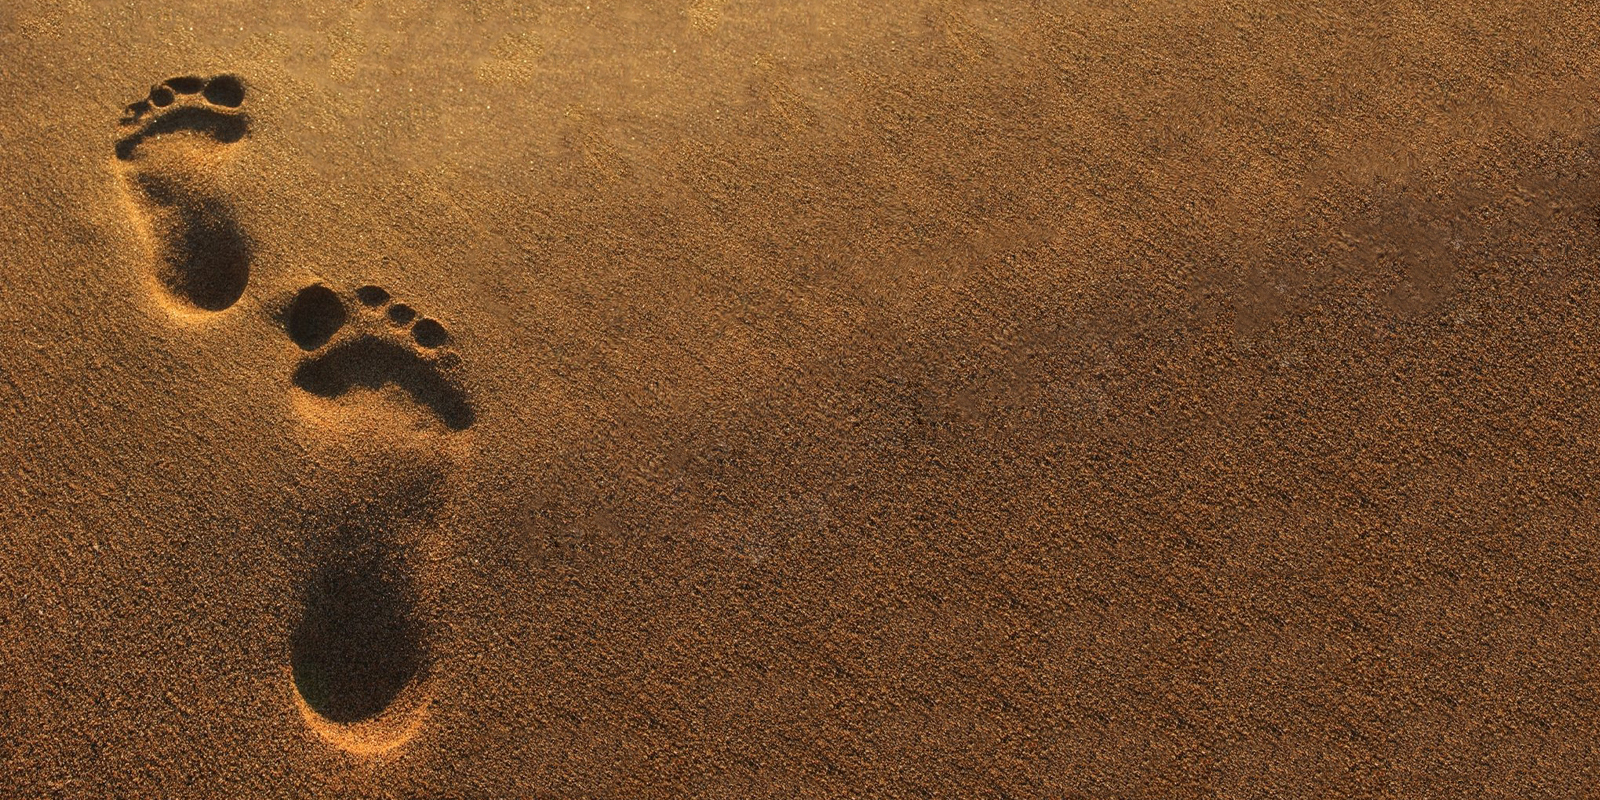
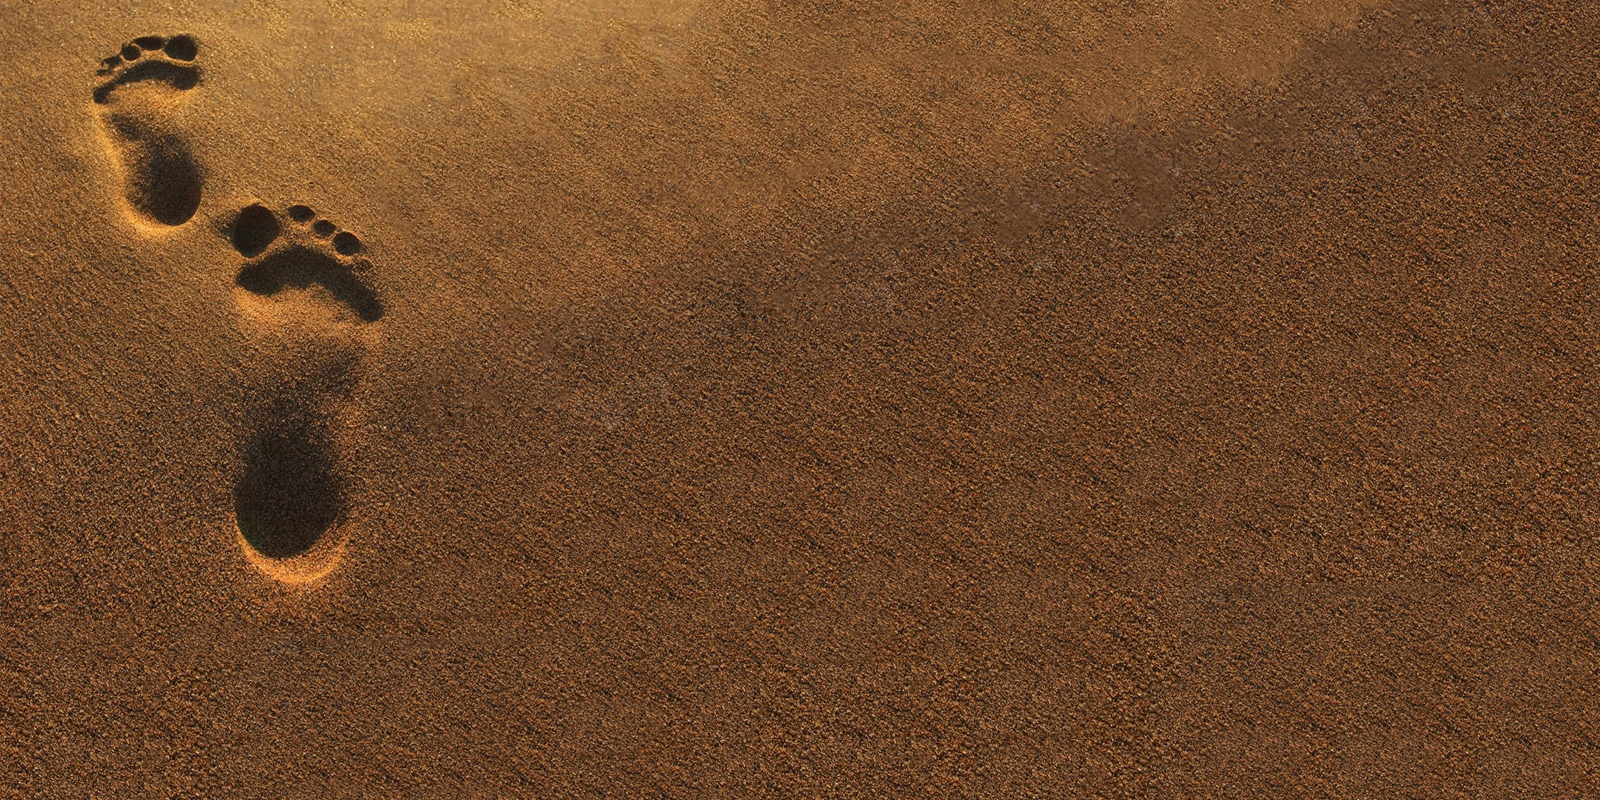
final touches

diff --git a/main.css b/main.css
@@ -1,1 +1,1 @@
-/*! normalize.css v8.0.0 | MIT License | github.com/necolas/normalize.css */@import url("https://fonts.googleapis.com/css?family=Lato:400,700");html{line-height:1.15;-webkit-text-size-adjust:100%}body{margin:0}h1{font-size:2em;margin:0.67em 0}hr{box-sizing:content-box;height:0;overflow:visible}pre{font-family:monospace, monospace;font-size:1em}a{background-color:transparent}abbr[title]{border-bottom:none;text-decoration:underline;text-decoration:underline dotted}b,strong{font-weight:bolder}code,kbd,samp{font-family:monospace, monospace;font-size:1em}small{font-size:80%}sub,sup{font-size:75%;line-height:0;position:relative;vertical-align:baseline}sub{bottom:-0.25em}sup{top:-0.5em}img{border-style:none}button,input,optgroup,select,textarea{font-family:inherit;font-size:100%;line-height:1.15;margin:0}button,input{overflow:visible}button,select{text-transform:none}button,[type="button"],[type="reset"],[type="submit"]{-webkit-appearance:button}button::-moz-focus-inner,[type="button"]::-moz-focus-inner,[type="reset"]::-moz-focus-inner,[type="submit"]::-moz-focus-inner{border-style:none;padding:0}button:-moz-focusring,[type="button"]:-moz-focusring,[type="reset"]:-moz-focusring,[type="submit"]:-moz-focusring{outline:1px dotted ButtonText}fieldset{padding:0.35em 0.75em 0.625em}legend{box-sizing:border-box;color:inherit;display:table;max-width:100%;padding:0;white-space:normal}progress{vertical-align:baseline}textarea{overflow:auto}[type="checkbox"],[type="radio"]{box-sizing:border-box;padding:0}[type="number"]::-webkit-inner-spin-button,[type="number"]::-webkit-outer-spin-button{height:auto}[type="search"]{-webkit-appearance:textfield;outline-offset:-2px}[type="search"]::-webkit-search-decoration{-webkit-appearance:none}::-webkit-file-upload-button{-webkit-appearance:button;font:inherit}details{display:block}summary{display:list-item}template{display:none}[hidden]{display:none}html{font-size:62.5%}body{font-family:'Lato', sans-serif;margin:0;line-height:1.5;font-size:1.8rem}h1,h2,h3,h4,h5,h6,p{margin:0}@media (max-width: 575.98px){html{font-size:55%}}@media (min-width: 576px) and (max-width: 767.98px){html{font-size:58%}}@media (min-width: 768px) and (max-width: 991.98px){html{font-size:60%}}@media (min-width: 992px) and (max-width: 1199.98px){html{font-size:62.5%}}@media (min-width: 1200px){html{font-size:62.5%}}html{font-size:62.5%}body{margin:0;font-size:1.8rem;padding:0;font-family:'Montserrat', sans-serif}h1,h2,h3,h4,h5,h6,p{margin:0}h2{font-size:2.25rem}a{text-decoration:none;color:#c19032}a:hover{color:#c19032}.navbar{background-image:linear-gradient(rgba(255,255,255,0.45), rgba(255,255,255,0.45)),url("./imgs/faith_steps_cover.jpg")}section.hero{height:100vh;width:100%;background-size:cover}section.dark{background-color:#191000;color:#fcf1de}section.padded{padding-top:8rem;padding-bottom:8rem}section.content .container .row,section.content .container-fluid .row{padding-top:3rem}section.content .container .row .border-white,section.content .container-fluid .row .border-white{border:0.1rem solid white}section.content .container .row .border-black,section.content .container-fluid .row .border-black{border:0.1rem solid black}section.content .container .row .column-pad,section.content .container-fluid .row .column-pad{padding-top:2rem}section.social{padding-top:8rem;padding-left:55rem;padding-right:55rem;display:flex;justify-content:space-around;font-size:5rem}section.social a{color:#191000}section.social a:hover{color:#c19032}.title{background-image:url("./imgs/faith_steps_cover_6.jpg");height:50rem;width:100%;background-size:cover;color:#fcf1de;display:flex;justify-content:center;align-items:center}.title h1{font-weight:500;font-size:7rem;text-align:left}@media (max-width: 560px){.title{font-size:5rem}}.card{background-color:#fcf1de;border-bottom:solid #422a00 .4rem}button.btn-link{color:#191000;text-decoration:none}button.btn-link:hover{color:#191000}button h2{font-size:2rem}.card-body{background-color:white;color:#191000;font-size:1.5rem}.row-img{display:-ms-flexbox;display:flex;-ms-flex-wrap:wrap;flex-wrap:wrap;padding:0 4px}.column-img{-ms-flex:33%;flex:33%;max-width:33%;padding:0 4px}.column-img img{margin-top:8px;vertical-align:middle}@media screen and (max-width: 800px){.column-img{-ms-flex:50%;flex:50%;max-width:50%}}@media screen and (max-width: 600px){.column-img{-ms-flex:100%;flex:100%;max-width:100%}}
+/*! normalize.css v8.0.0 | MIT License | github.com/necolas/normalize.css */@import url("https://fonts.googleapis.com/css?family=Lato:400,700");html{line-height:1.15;-webkit-text-size-adjust:100%}body{margin:0}h1{font-size:2em;margin:0.67em 0}hr{box-sizing:content-box;height:0;overflow:visible}pre{font-family:monospace, monospace;font-size:1em}a{background-color:transparent}abbr[title]{border-bottom:none;text-decoration:underline;text-decoration:underline dotted}b,strong{font-weight:bolder}code,kbd,samp{font-family:monospace, monospace;font-size:1em}small{font-size:80%}sub,sup{font-size:75%;line-height:0;position:relative;vertical-align:baseline}sub{bottom:-0.25em}sup{top:-0.5em}img{border-style:none}button,input,optgroup,select,textarea{font-family:inherit;font-size:100%;line-height:1.15;margin:0}button,input{overflow:visible}button,select{text-transform:none}button,[type="button"],[type="reset"],[type="submit"]{-webkit-appearance:button}button::-moz-focus-inner,[type="button"]::-moz-focus-inner,[type="reset"]::-moz-focus-inner,[type="submit"]::-moz-focus-inner{border-style:none;padding:0}button:-moz-focusring,[type="button"]:-moz-focusring,[type="reset"]:-moz-focusring,[type="submit"]:-moz-focusring{outline:1px dotted ButtonText}fieldset{padding:0.35em 0.75em 0.625em}legend{box-sizing:border-box;color:inherit;display:table;max-width:100%;padding:0;white-space:normal}progress{vertical-align:baseline}textarea{overflow:auto}[type="checkbox"],[type="radio"]{box-sizing:border-box;padding:0}[type="number"]::-webkit-inner-spin-button,[type="number"]::-webkit-outer-spin-button{height:auto}[type="search"]{-webkit-appearance:textfield;outline-offset:-2px}[type="search"]::-webkit-search-decoration{-webkit-appearance:none}::-webkit-file-upload-button{-webkit-appearance:button;font:inherit}details{display:block}summary{display:list-item}template{display:none}[hidden]{display:none}html{font-size:62.5%}body{font-family:'Lato', sans-serif;margin:0;line-height:1.5;font-size:1.8rem}h1,h2,h3,h4,h5,h6,p{margin:0}@media (max-width: 575.98px){html{font-size:55%}}@media (min-width: 576px) and (max-width: 767.98px){html{font-size:58%}}@media (min-width: 768px) and (max-width: 991.98px){html{font-size:60%}}@media (min-width: 992px) and (max-width: 1199.98px){html{font-size:62.5%}}@media (min-width: 1200px){html{font-size:62.5%}}html{font-size:62.5%}body{margin:0;font-size:1.8rem;padding:0;font-family:'Montserrat', sans-serif}h1,h2,h3,h4,h5,h6,p{margin:0}h2{font-size:2.25rem}a{text-decoration:none;color:#c19032}a:hover{color:#c19032}ul{list-style-type:none;margin:0;padding:0}li{display:inline}.navbar{background-image:linear-gradient(rgba(255,255,255,0.45), rgba(255,255,255,0.45)),url("./imgs/faith_steps_cover.jpg")}section.hero{height:100vh;width:100%;background-size:cover}section.dark{background-color:#191000;color:#fcf1de}section.padded{padding-top:8rem;padding-bottom:8rem}section.content .container .row,section.content .container-fluid .row{padding-top:3rem}section.content .container .row .border-white,section.content .container-fluid .row .border-white{border:0.1rem solid white}section.content .container .row .border-black,section.content .container-fluid .row .border-black{border:0.1rem solid black}section.content .container .row .column-pad,section.content .container-fluid .row .column-pad{padding-top:2rem}section.social{padding-top:8rem;display:flex;justify-content:space-around;font-size:5rem}section.social a{color:#191000}section.social a:hover{color:#c19032}.title{background-image:url("./imgs/faith_steps_cover_2.jpg");height:50rem;width:100%;background-size:cover;color:#fcf1de;display:flex;justify-content:center;align-items:center}.title h1{font-weight:500;font-size:7rem;text-align:left}@media (max-width: 560px){.title{font-size:5rem}}.card{background-color:#fcf1de;border-bottom:solid #422a00 .4rem}button.btn-link{color:#191000;text-decoration:none}button.btn-link:hover{color:#191000}button h2{font-size:2rem}.card-body{background-color:white;color:#191000;font-size:1.5rem}.row-img{display:-ms-flexbox;display:flex;-ms-flex-wrap:wrap;flex-wrap:wrap;padding:0 4px}.column-img{-ms-flex:33%;flex:33%;max-width:33%;padding:0 4px}.column-img img{margin-top:8px;vertical-align:middle}@media screen and (max-width: 800px){.column-img{-ms-flex:50%;flex:50%;max-width:50%}}@media screen and (max-width: 600px){.column-img{-ms-flex:100%;flex:100%;max-width:100%}}

diff --git a/index.html b/index.html
@@ -24,16 +24,16 @@
     <div class="collapse navbar-collapse w-100" id="navbarSupportedContent">
       <ul class="navbar-nav w-100 justify-content-center">
         <li class="nav-item active">
-          <a class="nav-link" href="#About">About &nbsp; <span class="sr-only">(current)</span></a>
+          <a class="nav-link" href="#About">About &nbsp;&nbsp; <span class="sr-only">(current)</span></a>
         </li>
         <li class="nav-item active">
-          <a class="nav-link" href="#Meetings">Meetings &nbsp; <span class="sr-only">(current)</span></a>
+          <a class="nav-link" href="#Meetings">Meetings &nbsp;&nbsp; <span class="sr-only">(current)</span></a>
         </li>
         <li class="nav-item active">
-          <a class="nav-link" href="#Statement">Statement of Faith &nbsp; <span class="sr-only">(current)</span></a>
+          <a class="nav-link" href="#Statement">Statement of Faith &nbsp;&nbsp; <span class="sr-only">(current)</span></a>
         </li>
         <li class="nav-item active">
-          <a class="nav-link" href="#Photos">Photos &nbsp; <span class="sr-only">(current)</span></a>
+          <a class="nav-link" href="#Photos">Photos &nbsp;&nbsp; <span class="sr-only">(current)</span></a>
         </li>
         <li class="nav-item active">
           <a class="nav-link" href="http://www.mcfcc.org/" target=”_blank”>Community Church</a>
@@ -207,7 +207,7 @@
       <div class="accordion" id="accordionExample">
         <div class="container">
           <div class="row">
-            <div class="col-6">
+            <div class="col-12 col-sm-6">
 
               <div class="card">
                 <div class="card-header" id="headingOne">
@@ -317,7 +317,7 @@
               </div>
 
             </div>
-            <div class="col-6">
+            <div class="col-12 col-sm-6">
               <div class="card">
                 <div class="card-header" id="headingSix">
                   <h5 class="mb-0">
@@ -470,8 +470,16 @@
       </div>
     </div>
     <section class="social">
-      <a href="https://www.facebook.com/mcfstudents/" target="_blank"><i class="	fa fa-facebook-square"> </i></a>
-      <a href="https://www.instagram.com/mcfstudents/" target="_blank"><i class="	fa fa-instagram"></i></a>
+      <ul class="list-inline">
+        <li>
+          <a href="https://www.facebook.com/mcfstudents/" target="_blank"><i class="	fa fa-facebook-square"> </i></a>
+          </li>
+          <li>
+            <a href="https://www.instagram.com/mcfstudents/" target="_blank"><i class="	fa fa-instagram"></i></a>
+            </li>
+        </ul>
+
+
     </section>
   </section>
 

diff --git a/scss/main.scss b/scss/main.scss
@@ -31,6 +31,15 @@ a:hover {
     color:  $brown;
   }
 
+  ul {
+      list-style-type: none;
+      margin: 0;
+      padding: 0;
+  }
+
+  li {
+      display: inline;
+  }
 
 
 .navbar {
@@ -80,8 +89,6 @@ section {
   }
   &.social {
     padding-top: 8rem;
-    padding-left: 55rem;
-    padding-right: 55rem;
     display: flex;
     justify-content: space-around;
     font-size: 5rem;
@@ -98,7 +105,7 @@ section {
 }
 
 .title{
-  background-image: url("./imgs/faith_steps_cover_6.jpg");
+  background-image: url("./imgs/faith_steps_cover_2.jpg");
   height: 50rem;
   width: 100%;
   background-size: cover;
